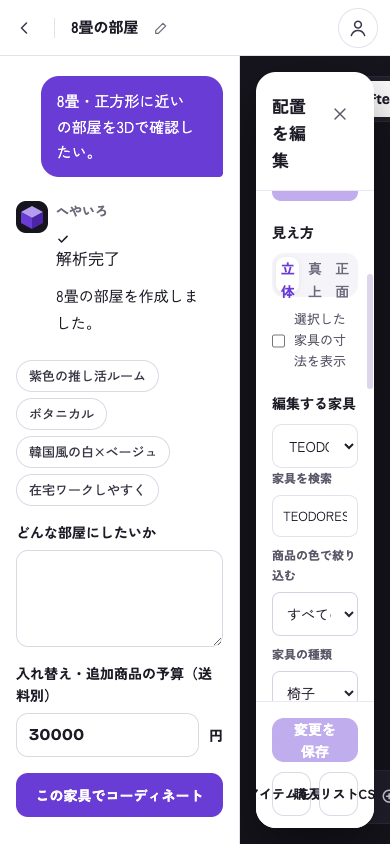
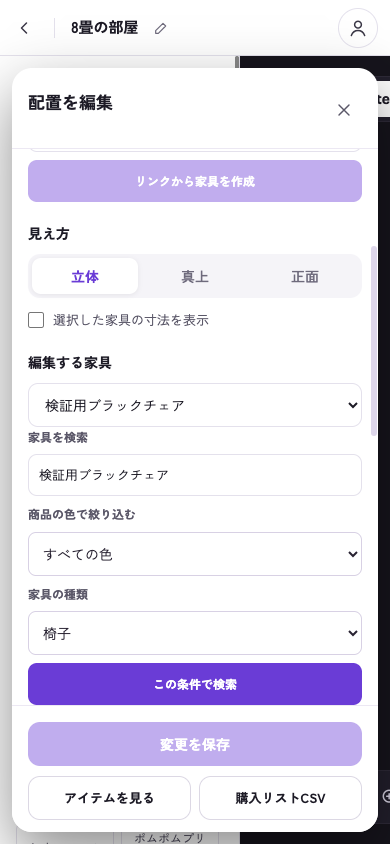
docs: add verified mobile replacement evidence for issue 79

diff --git a/docs/pr-evidence/issue-79/README.md b/docs/pr-evidence/issue-79/README.md
@@ -5,8 +5,9 @@ The screenshots use the actual React/Three.js editor on an isolated browser cont
 1. Click the rendered chair, search its fixed chair category, select a product, and confirm a published color variant through import. [Product selection](select-actual-product.png).
 2. Replace the chair and save. The scene contains one black replacement, 46 × 80 × 51 cm, purchase price ¥5,990, and the verified URL. [3D replacement](replaced-chair-3d.png).
 3. Reload preserves ecProductId 792, productId 1000000792, existing false, replacesObjectId chair-1, and the original chair replace operation. The purchase panel totals ¥5,990; CSV download is available. Follow-up request contains exactly one chair-1 edit with ec_product_id 792 and chair-1 action replace. The response is deliberately intercepted as a controlled error; browser generation is not a real backend/provider run.
-4. Another reversible product selection and undo returns to the saved black chair; the saved original replacement action remains replace. Original-to-replacement undo was observed earlier, before the final undo operation-state fix. Final original-operation reset was reviewed in code, not rerun from a cleared saved overlay.
-5. At 390 × 844 the editor has no horizontal page overflow, but the inherited split-pane layout leaves the editor too narrow; responsive layout is tracked separately in #70. [Mobile editor](mobile-replacement.png).
+4. Final root verification starts from a cleared saved overlay: original-to-replacement undo restores the original chair, redo restores the purchase, and save/reload retains the replacement. The actual coordination request contains exactly one selected EC product edit.
+5. At 390 × 844 the editor is a 366px-wide overlay below the header, with 12px gutters and no horizontal page overflow. Replacement, original undo, redo, save/reload, close, and selected-SKU follow-up request all pass. This final screenshot uses a controlled synthetic black-chair product (EC ID 792, ¥5,990). [Mobile editor](mobile-replacement.png).
+6. Unsupported image-goods categories retain editing controls but no longer offer a retail search rejected by the API. Supported legacy aliases map to their catalog categories.
 
 Final manual UI check: add the white product through the existing link palette (owned ecProductId 791), replace it with the verified black product (purchase ecProductId 792), save/reload, and capture the actual frontend request. It retains ec_product_id 791 and sends replacement_ec_product_id 792 for the same manual UUID, with action replace. [Manual replacement after reload](manual-purchase.png). The final replay on the merged dependency also transmits character_theme_id pochacco and room_palette_id warm-ivory. Choosing the new-room destination creates a dimension-only request (8 tatami, square), without carrying current furniture edits. No browser page errors occurred.
 

diff --git a/specs/furniture-replacement/spec.md b/specs/furniture-replacement/spec.md
@@ -24,4 +24,4 @@ Source: [issue #79](https://github.com/AtsushiHosaka/zenn_hackathon_5_takarada/i
 
 See [review evidence](../../docs/pr-evidence/issue-79/README.md). Real Gemini, retailer availability, and production were not verified.
 
-The mobile editor follow-up passes frontend lint/build and an exact-source category guard check (supported aliases accepted; poster/acrylic_stand rejected). Phone layout, close/save/undo interactions, and replacement screenshots require browser verification at the final integrated revision.
+The mobile editor follow-up passes frontend lint/build and an exact-source category guard check (supported aliases accepted; poster/acrylic_stand rejected). The actual frontend at 390 × 844 passes replacement, original undo, redo, save/reload, close, and the selected-SKU coordination request with controlled API fixtures. The panel measures 366px wide with 12px gutters and no horizontal page overflow. The final screenshot is in the review evidence.
